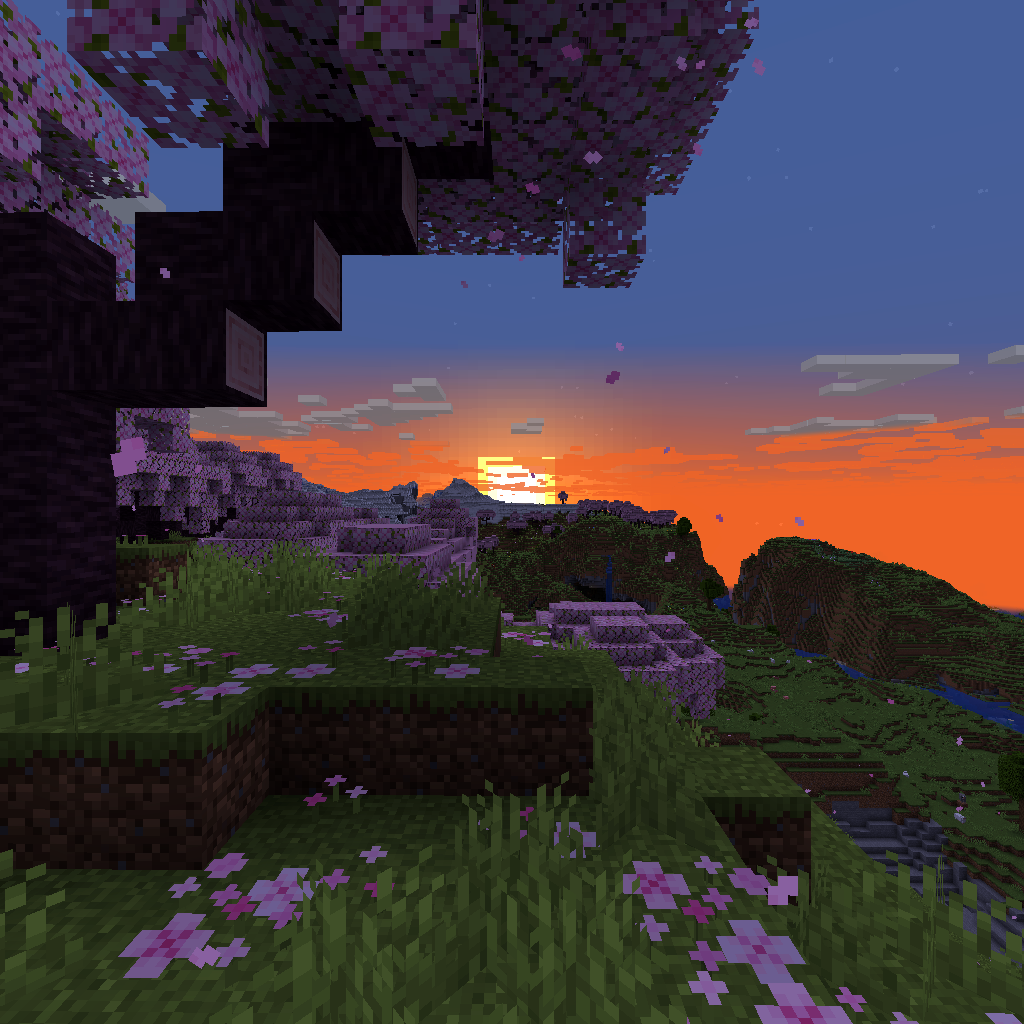
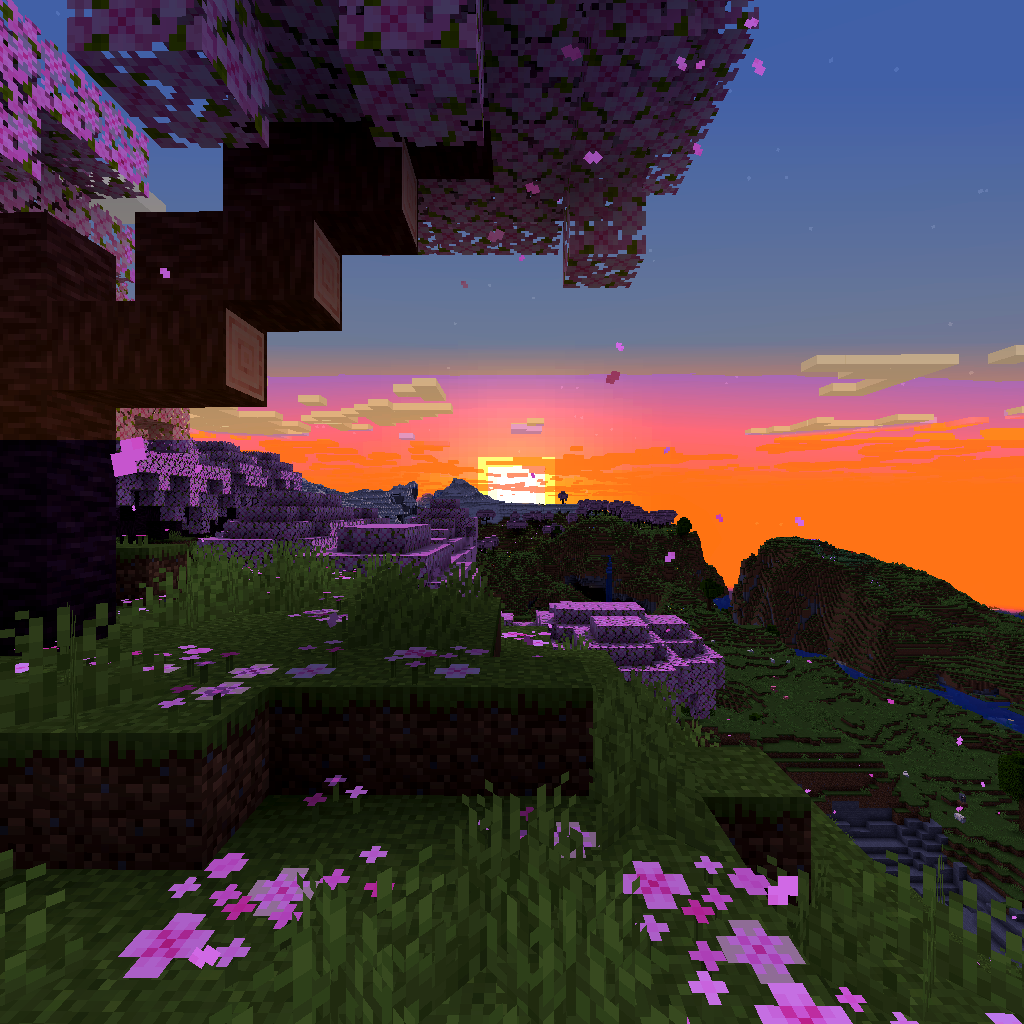
Add BSL/Complementary Shaders to Sakura Biome with volumetric god rays, sun bloom, and dynamic lighting

diff --git a/frontend/src/components/MinecraftPanorama.jsx b/frontend/src/components/MinecraftPanorama.jsx
@@ -39,7 +39,9 @@ export default function MinecraftPanorama({
   speed = 1.0,
   isPaused = false,
   showParticles = true,
-  onThemeChange
+  shadersEnabled = true,
+  onThemeChange,
+  onToggleShaders
 }) {
   const containerRef = useRef(null);
   const canvasRef = useRef(null);
@@ -296,6 +298,65 @@ export default function MinecraftPanorama({
     const renderParticles = () => {
       ctx.clearRect(0, 0, width, height);
 
+      // Real-Time Minecraft Shaders Layer: Volumetric God Rays & Sunlight Bloom
+      if (shadersEnabled && activeThemeKey === 'sakura') {
+        const currentYaw = cameraPivotRef.current ? cameraPivotRef.current.rotation.y : 0;
+        const sunAngle = -Math.PI * 0.5; // Sun is in +X / Face 1 direction
+        const angleDiff = ((currentYaw - sunAngle + Math.PI) % (Math.PI * 2)) - Math.PI;
+        const sunFacing = Math.max(0, Math.cos(angleDiff));
+
+        if (sunFacing > 0.04) {
+          const sunScreenX = width * 0.5 - Math.sin(angleDiff) * (width * 0.88);
+          const sunScreenY = height * 0.22 - (pitchRef.current + 0.16) * (height * 0.55);
+
+          // 1. Radiant Sunlight Bloom
+          const sunGlow = ctx.createRadialGradient(sunScreenX, sunScreenY, 8, sunScreenX, sunScreenY, width * 0.75);
+          sunGlow.addColorStop(0, `rgba(255, 250, 220, ${0.55 * sunFacing})`);
+          sunGlow.addColorStop(0.12, `rgba(255, 215, 160, ${0.34 * sunFacing})`);
+          sunGlow.addColorStop(0.42, `rgba(255, 175, 195, ${0.12 * sunFacing})`);
+          sunGlow.addColorStop(1, 'rgba(255, 255, 255, 0)');
+          ctx.fillStyle = sunGlow;
+          ctx.fillRect(0, 0, width, height);
+
+          // 2. Volumetric God Rays (Light Shafts)
+          ctx.save();
+          ctx.globalCompositeOperation = 'screen';
+          const time = performance.now() * 0.001;
+          for (let r = 0; r < 7; r++) {
+            const baseAngle = 0.38 + (r * 0.16) + Math.sin(time * 0.5 + r * 1.3) * 0.035;
+            const spread = 0.05 + Math.cos(time * 0.3 + r) * 0.012;
+            const rayLen = Math.max(width, height) * 1.6;
+
+            ctx.beginPath();
+            ctx.moveTo(sunScreenX, sunScreenY);
+            ctx.lineTo(sunScreenX + Math.cos(baseAngle - spread) * rayLen, sunScreenY + Math.sin(baseAngle - spread) * rayLen);
+            ctx.lineTo(sunScreenX + Math.cos(baseAngle + spread) * rayLen, sunScreenY + Math.sin(baseAngle + spread) * rayLen);
+            ctx.closePath();
+
+            const rayGrad = ctx.createRadialGradient(sunScreenX, sunScreenY, 15, sunScreenX, sunScreenY, rayLen * 0.85);
+            const rayAlpha = (0.075 + Math.sin(time * 0.7 + r * 1.8) * 0.02) * sunFacing;
+            rayGrad.addColorStop(0, `rgba(255, 245, 205, ${rayAlpha * 1.7})`);
+            rayGrad.addColorStop(0.35, `rgba(255, 215, 170, ${rayAlpha})`);
+            rayGrad.addColorStop(0.7, `rgba(255, 180, 200, ${rayAlpha * 0.4})`);
+            rayGrad.addColorStop(1, 'rgba(255, 255, 255, 0)');
+            ctx.fillStyle = rayGrad;
+            ctx.fill();
+          }
+
+          // 3. Anamorphic Lens Flare Streak when looking towards the sun
+          if (sunFacing > 0.5) {
+            const streakGrad = ctx.createLinearGradient(sunScreenX - width * 0.35, sunScreenY, sunScreenX + width * 0.35, sunScreenY);
+            const streakAlpha = (sunFacing - 0.5) * 0.3;
+            streakGrad.addColorStop(0, 'rgba(255, 220, 180, 0)');
+            streakGrad.addColorStop(0.5, `rgba(255, 245, 220, ${streakAlpha})`);
+            streakGrad.addColorStop(1, 'rgba(255, 220, 180, 0)');
+            ctx.fillStyle = streakGrad;
+            ctx.fillRect(sunScreenX - width * 0.35, sunScreenY - 3, width * 0.7, 6);
+          }
+          ctx.restore();
+        }
+      }
+
       particles.forEach((p) => {
         p.sway += p.swaySpeed;
         p.flipAngle += p.flipSpeed;
@@ -334,6 +395,12 @@ export default function MinecraftPanorama({
           // 3D tumbling fluttering Sakura Petal
           const flipScale = Math.cos(p.flipAngle);
           ctx.scale(1, Math.abs(flipScale) * 0.8 + 0.2);
+
+          // Subtle bloom aura on petals when shaders are active
+          if (shadersEnabled) {
+            ctx.shadowBlur = 10;
+            ctx.shadowColor = 'rgba(255, 175, 205, 0.65)';
+          }
 
           // Authentic Minecraft pixelated sakura petal
           ctx.fillStyle = p.color;
@@ -375,7 +442,7 @@ export default function MinecraftPanorama({
       window.removeEventListener('resize', onResize);
       cancelAnimationFrame(animId);
     };
-  }, [activeThemeKey, showParticles]);
+  }, [activeThemeKey, showParticles, shadersEnabled]);
 
   const activeTheme = PANORAMA_THEMES[activeThemeKey] || PANORAMA_THEMES.classic;
 
@@ -406,7 +473,7 @@ export default function MinecraftPanorama({
         />
       )}
 
-      {/* 3. Floating Ambient Particles Overlay */}
+      {/* 3. Floating Ambient Particles & Real-Time Shaders Overlay */}
       {showParticles && (
         <canvas 
           ref={particleCanvasRef}
@@ -414,7 +481,10 @@ export default function MinecraftPanorama({
         />
       )}
 
-      {/* 4. Authentic Minecraft Vignette & Readability Gradient */}
+      {/* 4. Real-Time Shader Lighting & Vignette Overlay */}
+      {shadersEnabled && activeThemeKey === 'sakura' && (
+        <div className="absolute inset-0 pointer-events-none bg-gradient-to-tr from-amber-500/10 via-transparent to-pink-400/15 mix-blend-screen transition-opacity duration-700" />
+      )}
       <div 
         className={`absolute inset-0 pointer-events-none ${activeTheme.vignetteOpacity} transition-colors duration-700`} 
       />
@@ -425,13 +495,13 @@ export default function MinecraftPanorama({
         className="absolute inset-0 pointer-events-none bg-gradient-to-t from-black/60 via-transparent to-black/50" 
       />
 
-      {/* 5. Quick Theme Selector Pill (Floating bottom-right or accessible anytime) */}
+      {/* 5. Quick Theme & Shaders Selector Pill */}
       <div 
-        className="absolute bottom-12 right-4 z-20 hidden md:flex items-center gap-1.5 bg-black/70 backdrop-blur-md px-2.5 py-1.5 border-2 border-neutral-700 shadow-xl pointer-events-auto"
+        className="absolute bottom-12 right-4 z-20 hidden md:flex items-center gap-2 bg-black/75 backdrop-blur-md px-3 py-1.5 border-2 border-neutral-700 shadow-xl pointer-events-auto"
         onClick={(e) => e.stopPropagation()}
       >
-        <span className="font-pixel text-[10px] text-[#ffff55] mr-1">REALM:</span>
-        {Object.values(PANORAMA_THEMES).map((thm) => (
+        <span className="font-pixel text-[10px] text-[#ffff55]">REALM:</span>
+        {Object.values(PANORAMA_THEMES).filter((t, i, arr) => arr.findIndex(x => x.id === t.id) === i).map((thm) => (
           <button
             key={thm.id}
             onClick={() => handleSelectTheme(thm.id)}
@@ -441,9 +511,25 @@ export default function MinecraftPanorama({
                 : 'text-gray-400 border-neutral-800 hover:text-white hover:border-neutral-600'
             }`}
           >
-            {thm.name}
+            {thm.shortName || thm.name}
           </button>
         ))}
+
+        <span className="text-neutral-600 text-xs font-mono">|</span>
+
+        <button
+          onClick={() => {
+            if (onToggleShaders) onToggleShaders();
+          }}
+          className={`px-2 py-0.5 font-pixel text-[9px] border transition-all cursor-pointer ${
+            shadersEnabled
+              ? 'bg-[#ffff55]/20 text-[#ffff55] border-[#ffff55] shadow-sm shadow-yellow-500/20'
+              : 'text-gray-500 border-neutral-800 hover:text-white'
+          }`}
+          title="Toggle BSL/Complementary Volumetric Shaders"
+        >
+          {shadersEnabled ? '✨ SHADERS ON' : 'SHADERS OFF'}
+        </button>
       </div>
     </div>
   );

diff --git a/frontend/src/components/MainMenu.jsx b/frontend/src/components/MainMenu.jsx
@@ -38,6 +38,7 @@ export default function MainMenu() {
   });
   const [panoramaSpeed, setPanoramaSpeed] = useState(1.0);
   const [panoramaPaused, setPanoramaPaused] = useState(false);
+  const [shadersEnabled, setShadersEnabled] = useState(true);
 
   const handleThemeChange = (newTheme) => {
     const actualTheme = newTheme === 'cherry' ? 'sakura' : newTheme;
@@ -47,7 +48,7 @@ export default function MainMenu() {
 
   // Cycle through available themes quickly
   const cycleTheme = () => {
-    const themeKeys = Object.keys(PANORAMA_THEMES);
+    const themeKeys = Object.keys(PANORAMA_THEMES).filter((t, i, arr) => arr.indexOf(t) === i);
     const currentIndex = themeKeys.indexOf(panoramaTheme);
     const nextTheme = themeKeys[(currentIndex + 1) % themeKeys.length];
     handleThemeChange(nextTheme);
@@ -105,7 +106,9 @@ export default function MainMenu() {
         theme={panoramaTheme}
         speed={panoramaSpeed}
         isPaused={panoramaPaused}
+        shadersEnabled={shadersEnabled}
         onThemeChange={handleThemeChange}
+        onToggleShaders={() => setShadersEnabled(!shadersEnabled)}
       />
 
       {/* Top Banner / Navigation helper */}
@@ -117,10 +120,20 @@ export default function MainMenu() {
             title="Click to switch Minecraft Panorama Realm"
           >
             <Compass size={14} className="text-[#55ff55] animate-spin-slow" />
-            <span>REALM: {PANORAMA_THEMES[panoramaTheme]?.name.toUpperCase() || 'CLASSIC'}</span>
+            <span>REALM: {PANORAMA_THEMES[panoramaTheme]?.name.toUpperCase() || 'SAKURA BIOME'}</span>
           </button>
         </div>
         <div className="flex items-center gap-3 sm:gap-4 text-xs font-pixel">
+          {/* Shaders On / Off Toggle */}
+          <button
+            onClick={() => setShadersEnabled(!shadersEnabled)}
+            className="hover:text-[#ffff55] flex items-center gap-1.5 transition-colors cursor-pointer"
+            title={shadersEnabled ? "Minecraft Shaders: Enabled (BSL / Complementary Lighting)" : "Vanilla Minecraft Lighting"}
+          >
+            <Sparkles size={14} className={shadersEnabled ? "text-[#ffff55] animate-pulse" : "text-gray-500"} />
+            <span className="hidden sm:inline">{shadersEnabled ? 'SHADERS ON' : 'SHADERS OFF'}</span>
+          </button>
+
           {/* Pause / Resume Live Background Motion */}
           <button
             onClick={() => setPanoramaPaused(!panoramaPaused)}
@@ -504,6 +517,20 @@ export default function MainMenu() {
                         className={`mc-button-base px-3 py-1 font-pixel text-xs ${panoramaPaused ? 'text-[#ff5555]' : 'text-[#55ff55]'}`}
                       >
                         {panoramaPaused ? 'PAUSED' : 'ROTATING'}
+                      </button>
+                    </div>
+
+                    {/* Shaders Pack Toggle */}
+                    <div className="flex justify-between items-center pt-3 border-t-2 border-neutral-700">
+                      <div>
+                        <span className="font-pixel text-xs text-white block">MINECRAFT SHADERS (BSL / COMPLEMENTARY)</span>
+                        <span className="font-sans text-[10px] text-gray-400">Volumetric God Rays, Sunlight Bloom & Ambient Occlusion</span>
+                      </div>
+                      <button 
+                        onClick={() => setShadersEnabled(!shadersEnabled)}
+                        className={`mc-button-base px-3 py-1 font-pixel text-xs ${shadersEnabled ? 'text-[#ffff55] border-[#ffff55]' : 'text-gray-400'}`}
+                      >
+                        {shadersEnabled ? '✨ SHADERS ON' : 'VANILLA'}
                       </button>
                     </div>
 
